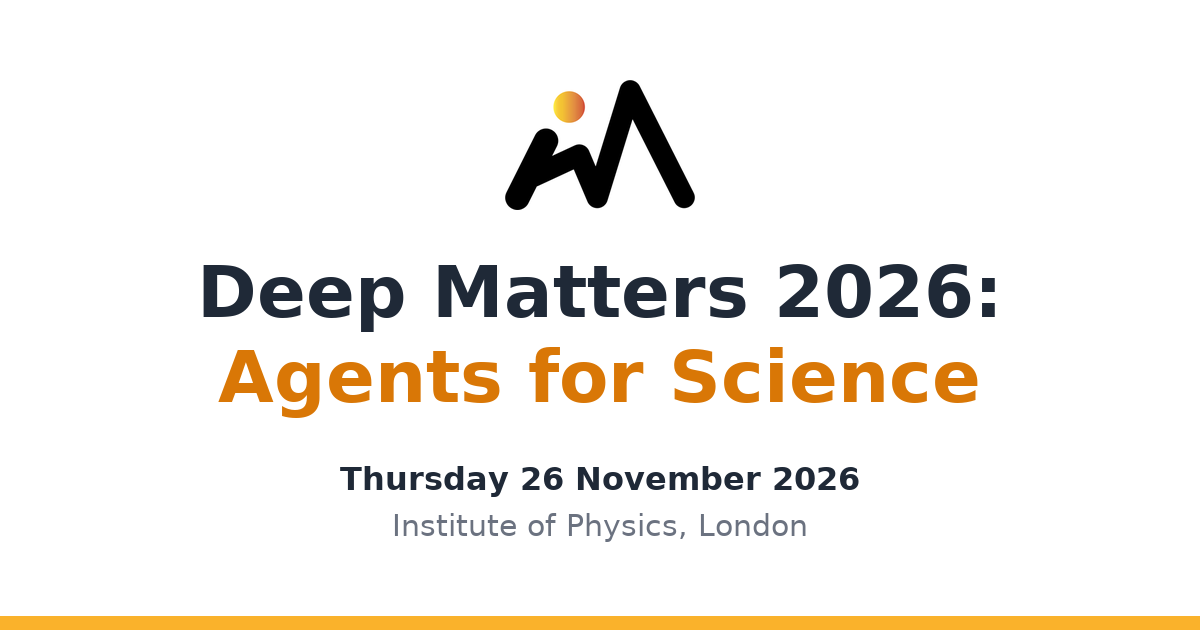
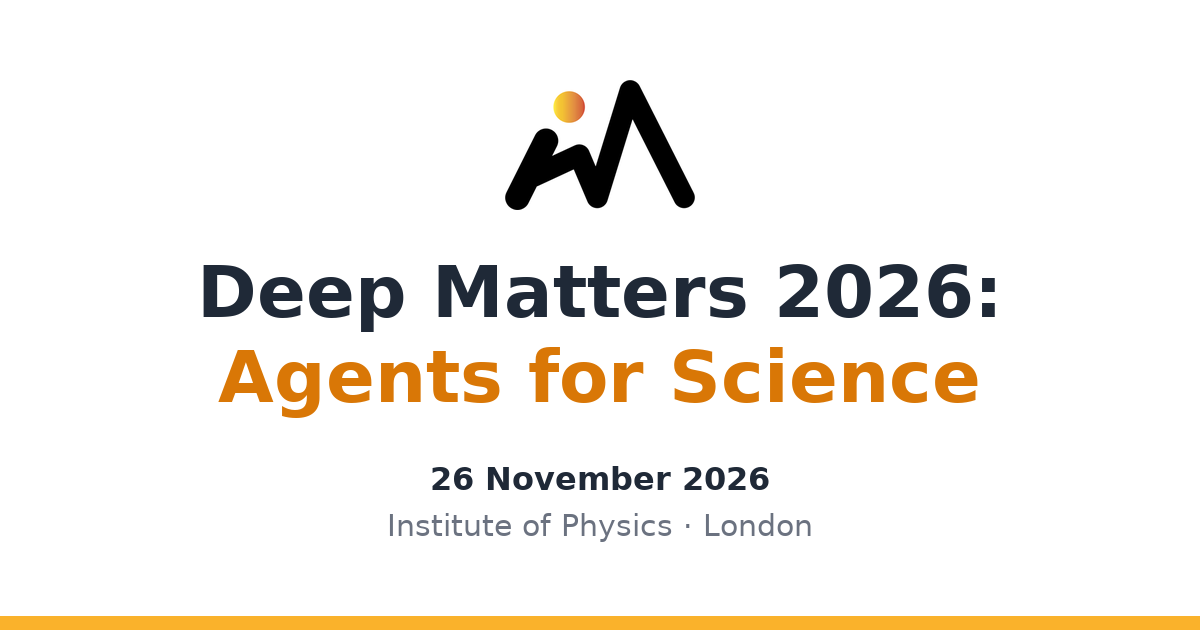
Refine layout and content
- Left-align sections; brand reads 'Deep Matters'
- Hero: '26 November 2026' and 'Institute of Physics · London'
- New About copy
- Agenda: uniform heading sizes, sessions not bold, slot descriptions
- People: add roles and Sheares Toh's photo; Sam Cooper's details
- Official Imperial Blue logo (SVG); logos sized by aspect ratio
- Venue address links to Google Maps

Changed region(s): [[0.2775, 0.7238, 0.74, 0.7841], [0.3083, 0.8143, 0.6783, 0.8746]]

diff --git a/site/css/style.css b/site/css/style.css
@@ -34,12 +34,11 @@ a:hover { text-decoration-thickness: 2px; }
 svg { fill: none; stroke: currentColor; stroke-width: 2; stroke-linecap: round; stroke-linejoin: round; }
 
 .container { max-width: var(--maxw); margin: 0 auto; padding: 0 16px; }
-.narrow { max-width: 760px; }
 
 h1, h2, h3 { line-height: 1.2; margin: 0 0 1rem; letter-spacing: -.01em; }
 h2 { font-size: clamp(1.6rem, 3vw, 2.2rem); font-weight: 800; }
 h3 { font-size: 1.1rem; }
-.lead { font-size: 1.1rem; color: #374151; margin: 0; }
+.lead { font-size: 1.1rem; color: #374151; margin: 0; max-width: 72ch; }
 .muted { color: var(--muted); }
 
 section { padding: 3.5rem 0; border-bottom: 1px solid var(--border); }
@@ -69,7 +68,6 @@ section:last-of-type { border-bottom: 0; }
 .brand { display: flex; align-items: center; gap: .5rem; color: var(--fg); text-decoration: none; font-weight: 700; margin-right: auto; white-space: nowrap; min-width: 0; }
 @media (max-width: 400px) { .header-bar { gap: .5rem; } .brand { font-size: .92rem; } .brand img { height: 26px; } }
 .brand img { height: 30px; width: auto; }
-.brand b { color: var(--accent-2); }
 .menu-btn { display: inline-flex; padding: .45rem; border: 1px solid var(--border); border-radius: 12px; background: #fff; color: var(--fg); cursor: pointer; }
 .menu-btn svg { width: 22px; height: 22px; }
 
@@ -90,20 +88,19 @@ section:last-of-type { border-bottom: 0; }
 
 /* Hero */
 .hero {
-  padding: 4.5rem 0 4rem; text-align: center;
-  background: radial-gradient(900px 480px at 50% -20%, rgba(250, 178, 43, .18), transparent 70%);
+  padding: 4.5rem 0 4rem;
+  background: radial-gradient(900px 480px at 15% -20%, rgba(250, 178, 43, .18), transparent 70%);
 }
 .hero h1 { font-size: clamp(1.9rem, 7.5vw, 4.4rem); font-weight: 900; letter-spacing: -.03em; line-height: 1.05; margin-bottom: 1.5rem; }
 .hero h1 > span { display: block; }
 .hero-theme { color: var(--accent-2); }
-.hero-meta { list-style: none; padding: 0; margin: 0 0 2rem; display: flex; flex-wrap: wrap; justify-content: center; gap: .6rem 1.75rem; font-weight: 600; font-size: 1.05rem; }
+.hero-meta { list-style: none; padding: 0; margin: 0 0 2rem; display: flex; flex-wrap: wrap; gap: .6rem 1.75rem; font-weight: 600; font-size: 1.05rem; }
 .hero-meta li { display: flex; align-items: center; gap: .5rem; }
 .hero-meta svg { width: 20px; height: 20px; color: var(--accent-2); flex: none; }
-.actions { display: flex; flex-wrap: wrap; gap: .75rem; justify-content: center; }
+.actions { display: flex; flex-wrap: wrap; gap: .75rem; }
 
 /* People cards (speakers + organizers) */
 .people { display: grid; gap: .75rem; grid-template-columns: repeat(auto-fill, minmax(150px, 1fr)); }
-#organizers .people { grid-template-columns: repeat(auto-fit, minmax(150px, 250px)); justify-content: center; }
 @media (min-width: 720px) { .people { gap: 1rem; grid-template-columns: repeat(auto-fill, minmax(210px, 1fr)); } }
 .person {
   display: flex; flex-direction: column; align-items: center; text-align: center;
@@ -111,6 +108,7 @@ section:last-of-type { border-bottom: 0; }
 }
 .person h3 { margin: .9rem 0 .15rem; font-size: 1.05rem; }
 .person p { margin: 0; color: var(--muted); font-size: .92rem; line-height: 1.4; }
+.person .role { color: var(--fg); }
 .person.tba { background: transparent; border-style: dashed; }
 .person.tba h3 { color: var(--muted); font-weight: 600; }
 
@@ -139,10 +137,11 @@ section:last-of-type { border-bottom: 0; }
 .slot:first-child { border-top: 0; }
 .slot time { font-variant-numeric: tabular-nums; font-weight: 700; color: var(--accent-ink); font-size: .95rem; white-space: nowrap; }
 .slot h3 { margin: 0; font-size: 1.1rem; }
+.slot-session h3 { font-weight: 500; }
 .slot-break { background: var(--panel); padding-block: .85rem; }
-.slot-break h3 { font-weight: 600; font-size: 1rem; color: var(--muted); }
+.slot-break h3 { font-weight: 500; color: var(--muted); }
 .slot.tba h3 { color: var(--muted); font-weight: 600; font-style: italic; }
-.abstract { margin: .6rem 0 0; color: #4b5563; font-size: .95rem; max-width: 75ch; }
+.abstract { margin: .5rem 0 0; color: #4b5563; font-size: .95rem; max-width: 75ch; }
 
 .speaker-chips { display: flex; flex-wrap: wrap; gap: .5rem 1.25rem; margin-top: .7rem; }
 .chip { display: flex; align-items: center; gap: .6rem; }
@@ -165,15 +164,15 @@ section:last-of-type { border-bottom: 0; }
 @media (min-width: 860px) { .venue { grid-template-columns: 1fr 1.4fr; align-items: stretch; } }
 
 /* Register band */
-.register { text-align: center; background: linear-gradient(135deg, #fbbf3d, var(--accent)); border-bottom: 0; }
+.register { background: linear-gradient(135deg, #fbbf3d, var(--accent)); border-bottom: 0; }
 .register h2 { color: #1a1200; }
 .register p { margin: 0 0 1.5rem; font-size: 1.1rem; font-weight: 600; color: #3b2a00; }
 
 /* Host & sponsors */
-.partners { display: grid; gap: 2.5rem; text-align: center; }
+.partners { display: grid; gap: 2.5rem; }
 .eyebrow { font-size: .85rem; font-weight: 700; text-transform: uppercase; letter-spacing: .12em; color: var(--muted); }
-.logos { display: flex; flex-wrap: wrap; justify-content: center; align-items: center; gap: 1.5rem 3rem; }
-.logos img { height: 44px; width: auto; max-width: 240px; object-fit: contain; }
+.logos { display: flex; flex-wrap: wrap; align-items: center; gap: 1.5rem 3rem; min-height: 80px; }
+.logos img { height: 44px; width: auto; }  /* final height set by balanceLogos() */
 .logos a:hover img { opacity: .8; }
 @media (min-width: 860px) { .partners { grid-template-columns: 1fr 1.4fr; } }
 
@@ -195,4 +194,4 @@ details p { margin: 0; padding: 0 1.15rem 1.1rem; color: #4b5563; }
 @media (min-width: 860px) { .faq { grid-template-columns: 1.6fr 1fr; gap: 3rem; } .contact-card { margin-top: 3.4rem; } }
 
 /* Footer */
-.site-footer { padding: 2rem 0; border-top: 1px solid var(--border); color: var(--muted); font-size: .9rem; text-align: center; }
+.site-footer { padding: 2rem 0; border-top: 1px solid var(--border); color: var(--muted); font-size: .9rem; }

diff --git a/site/js/main.js b/site/js/main.js
@@ -28,7 +28,7 @@ const profileLinks = (p) => {
 };
 
 const personCard = (p) =>
-  p ? `<article class="person">${avatar(p)}<h3>${esc(p.name)}</h3><p>${esc(p.affiliation)}</p>${profileLinks(p)}</article>`
+  p ? `<article class="person">${avatar(p)}<h3>${esc(p.name)}</h3>${p.role ? `<p class="role">${esc(p.role)}</p>` : ""}<p>${esc(p.affiliation)}</p>${profileLinks(p)}</article>`
     : `<article class="person tba">${avatar()}<h3>To be announced</h3></article>`;
 
 // "09:30" + minutes -> "10:10"
@@ -47,8 +47,9 @@ function renderAgenda({ start, talkMinutes, items }, people) {
     clock = end || clock;
 
     if (item.type !== "talk") {
-      const cls = item.type === "break" ? "slot slot-break" : "slot";
-      return `<li class="${cls}"><time>${time}</time><div><h3>${esc(item.title)}</h3></div></li>`;
+      const cls = item.type === "break" ? "slot slot-break" : "slot slot-session";
+      const desc = item.description ? `<p class="abstract">${esc(item.description)}</p>` : "";
+      return `<li class="${cls}"><time>${time}</time><div><h3>${esc(item.title)}</h3>${desc}</div></li>`;
     }
 
     const speakers = (item.speakers || []).map((id) => people[id]).filter(Boolean);
@@ -67,18 +68,28 @@ function renderAgenda({ start, talkMinutes, items }, people) {
 }
 
 const logoList = (orgs) =>
-  orgs.map((o) => `<a href="${esc(o.url)}" target="_blank" rel="noopener"><img src="${esc(o.logo)}" alt="${esc(o.name)}"${o.height ? ` style="height:${Number(o.height)}px"` : ""} /></a>`).join("");
+  orgs.map((o) => `<a href="${esc(o.url)}" target="_blank" rel="noopener"><img src="${esc(o.logo)}" alt="${esc(o.name)}" data-scale="${Number(o.scale) || 1}" /></a>`).join("");
+
+// Size logos by aspect ratio so wide wordmarks and compact marks look equally weighted
+// (height ∝ ratio^-0.6, slightly stronger than equal area). Per-logo "scale" fine-tunes.
+function balanceLogos() {
+  document.querySelectorAll(".logos img").forEach((img) => {
+    const fit = () => {
+      const ratio = img.naturalWidth / img.naturalHeight;
+      img.style.height = `${Math.round(95 * Math.pow(ratio, -0.6) * img.dataset.scale)}px`;
+    };
+    img.complete && img.naturalWidth ? fit() : img.addEventListener("load", fit, { once: true });
+  });
+}
 
 function render(data) {
   const { event, venue, people, agenda } = data;
   const $ = (id) => document.getElementById(id);
 
-  const d = new Date(`${event.date}T12:00:00`);
-  const part = (opts) => d.toLocaleDateString("en-GB", opts);
-  const dateText = `${part({ weekday: "long" })} ${part({ day: "numeric", month: "long", year: "numeric" })}`;
+  const dateText = new Date(`${event.date}T12:00:00`).toLocaleDateString("en-GB", { day: "numeric", month: "long", year: "numeric" });
   const fields = {
     title: `${event.title}:`, theme: event.theme, date: dateText,
-    place: `${venue.name}, ${venue.city}`, about: event.about,
+    place: `${venue.name} · ${venue.city}`, about: event.about,
     venueName: venue.name, address: venue.address, directions: venue.directions,
     registerNote: event.registerNote,
   };
@@ -107,6 +118,7 @@ function render(data) {
   $("organizers-list").innerHTML = data.organizers.map((id) => personCard(people[id])).join("");
   $("hosts-list").innerHTML = logoList(data.hosts);
   $("sponsors-list").innerHTML = logoList(data.sponsors);
+  balanceLogos();
   $("faq-list").innerHTML = data.faq.map((f) => `<details><summary>${esc(f.q)}</summary><p>${esc(f.a)}</p></details>`).join("");
   $("contact-btn").href = `mailto:${event.contactEmail}`;
 

diff --git a/site/index.html b/site/index.html
@@ -23,7 +23,7 @@
     <div class="container header-bar">
       <a class="brand" href="#top" aria-label="Deep Matters 2026 home">
         <img src="images/logo.png" alt="" width="44" height="30" />
-        <span>Deep Matters <b>2026</b></span>
+        <span>Deep Matters</span>
       </a>
       <nav class="nav" id="nav" aria-label="Primary">
         <a href="#about">About</a>
@@ -55,7 +55,7 @@
     </section>
 
     <section id="about">
-      <div class="container narrow">
+      <div class="container">
         <h2>About</h2>
         <p class="lead" data-field="about"></p>
       </div>
@@ -80,10 +80,9 @@
         <div>
           <h2>Venue</h2>
           <p class="venue-name" data-field="venueName"></p>
-          <p data-field="address"></p>
+          <p><a id="map-link" data-field="address" target="_blank" rel="noopener"></a></p>
           <h3>Getting there</h3>
           <p data-field="directions"></p>
-          <p><a id="map-link" target="_blank" rel="noopener">Open in Google Maps ↗</a></p>
         </div>
         <iframe id="map" class="map" title="Map of the venue" loading="lazy" referrerpolicy="no-referrer-when-downgrade"></iframe>
       </div>

diff --git a/tools/make_images.py b/tools/make_images.py
@@ -50,9 +50,13 @@ def centred(draw, y, text, f, fill, width):
     draw.text(((width - text_width(draw, text, f)) // 2, y), text, font=f, fill=fill)
 
 
+def place_text():
+    return f"{VENUE['name']} · {VENUE['city']}"
+
+
 def date_text():
     d = date.fromisoformat(EVENT["date"])
-    return f"{d:%A} {d.day} {d:%B %Y}"
+    return f"{d.day} {d:%B %Y}"
 
 
 def circle(img, size, ring=8):
@@ -77,7 +81,7 @@ def header_band(canvas, height):
     canvas.paste(plate, (60, (height - 84) // 2))
     x = 60 + plate.width + 32
     draw.text((x, height // 2 - 44), f"{EVENT['title']}: {EVENT['theme']}", font=font(34, True), fill=WHITE)
-    draw.text((x, height // 2 + 8), f"{date_text()} · {VENUE['name']}, {VENUE['city']}", font=font(22), fill=GREY)
+    draw.text((x, height // 2 + 8), f"{date_text()}  ·  {place_text()}", font=font(22), fill=GREY)
 
 
 def make_photos():
@@ -102,7 +106,7 @@ def make_og():
     centred(draw, 250, f"{EVENT['title']}:", font(72, True), FG, w)
     centred(draw, 335, EVENT["theme"], font(72, True), AMBER, w)
     centred(draw, 460, date_text(), font(32, True), FG, w)
-    centred(draw, 508, f"{VENUE['name']}, {VENUE['city']}", font(30), "#6b7280", w)
+    centred(draw, 508, place_text(), font(30), "#6b7280", w)
     draw.rectangle((0, h - 14, w, h), fill=GOLD)
     img.save(SITE / "images" / "og-card.png", optimize=True)
     print("og", SITE / "images" / "og-card.png")

diff --git a/README.md b/README.md
@@ -38,7 +38,8 @@ Opening `index.html` directly from disk won't work, because the page loads `data
 
   Speakers appear in the Speakers section automatically, in agenda order. Any talk without a speaker shows
   as "To be announced".
-- **Logos**: `hosts` / `sponsors`. The optional `height` (px) evens out logos with different proportions.
+- **Logos**: `hosts` / `sponsors`. Logos are sized automatically to look equally weighted. Crop each file
+  tightly with no padding, and use the optional `scale` (e.g. `1.2`) to fine-tune one logo.
 - **FAQ**: `faq` list of `{ "q", "a" }`.
 
 ## Images
